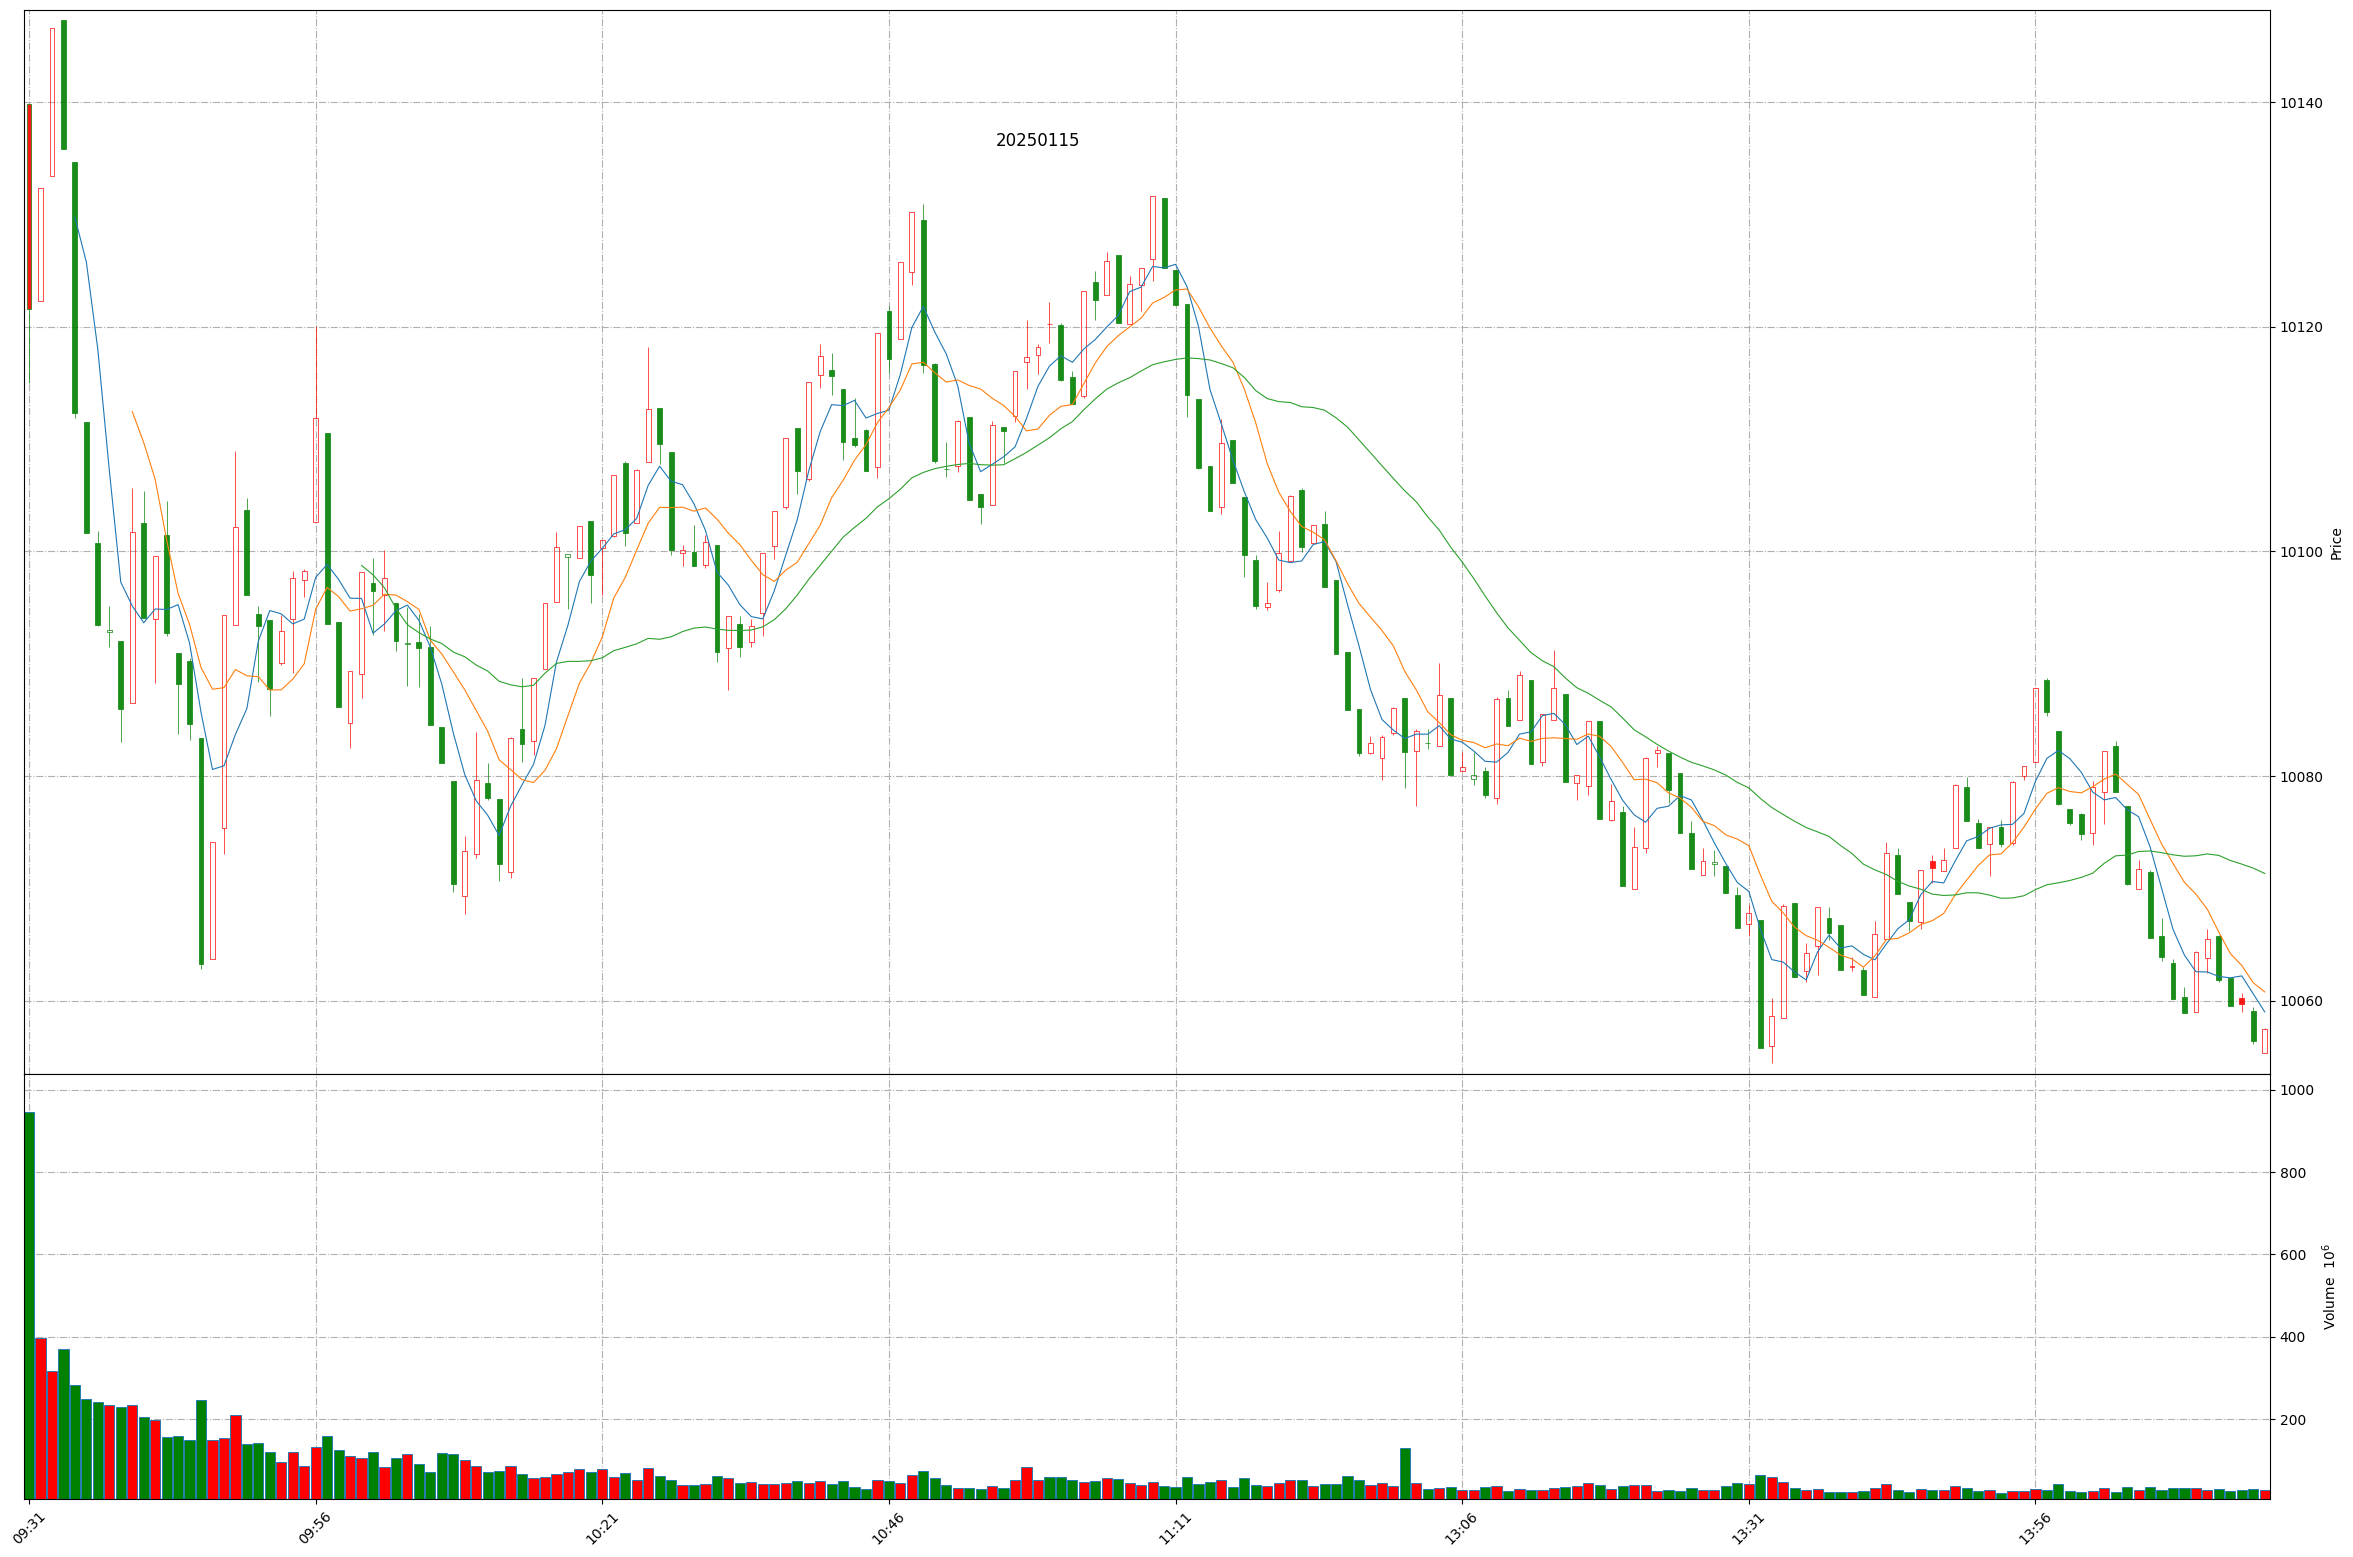
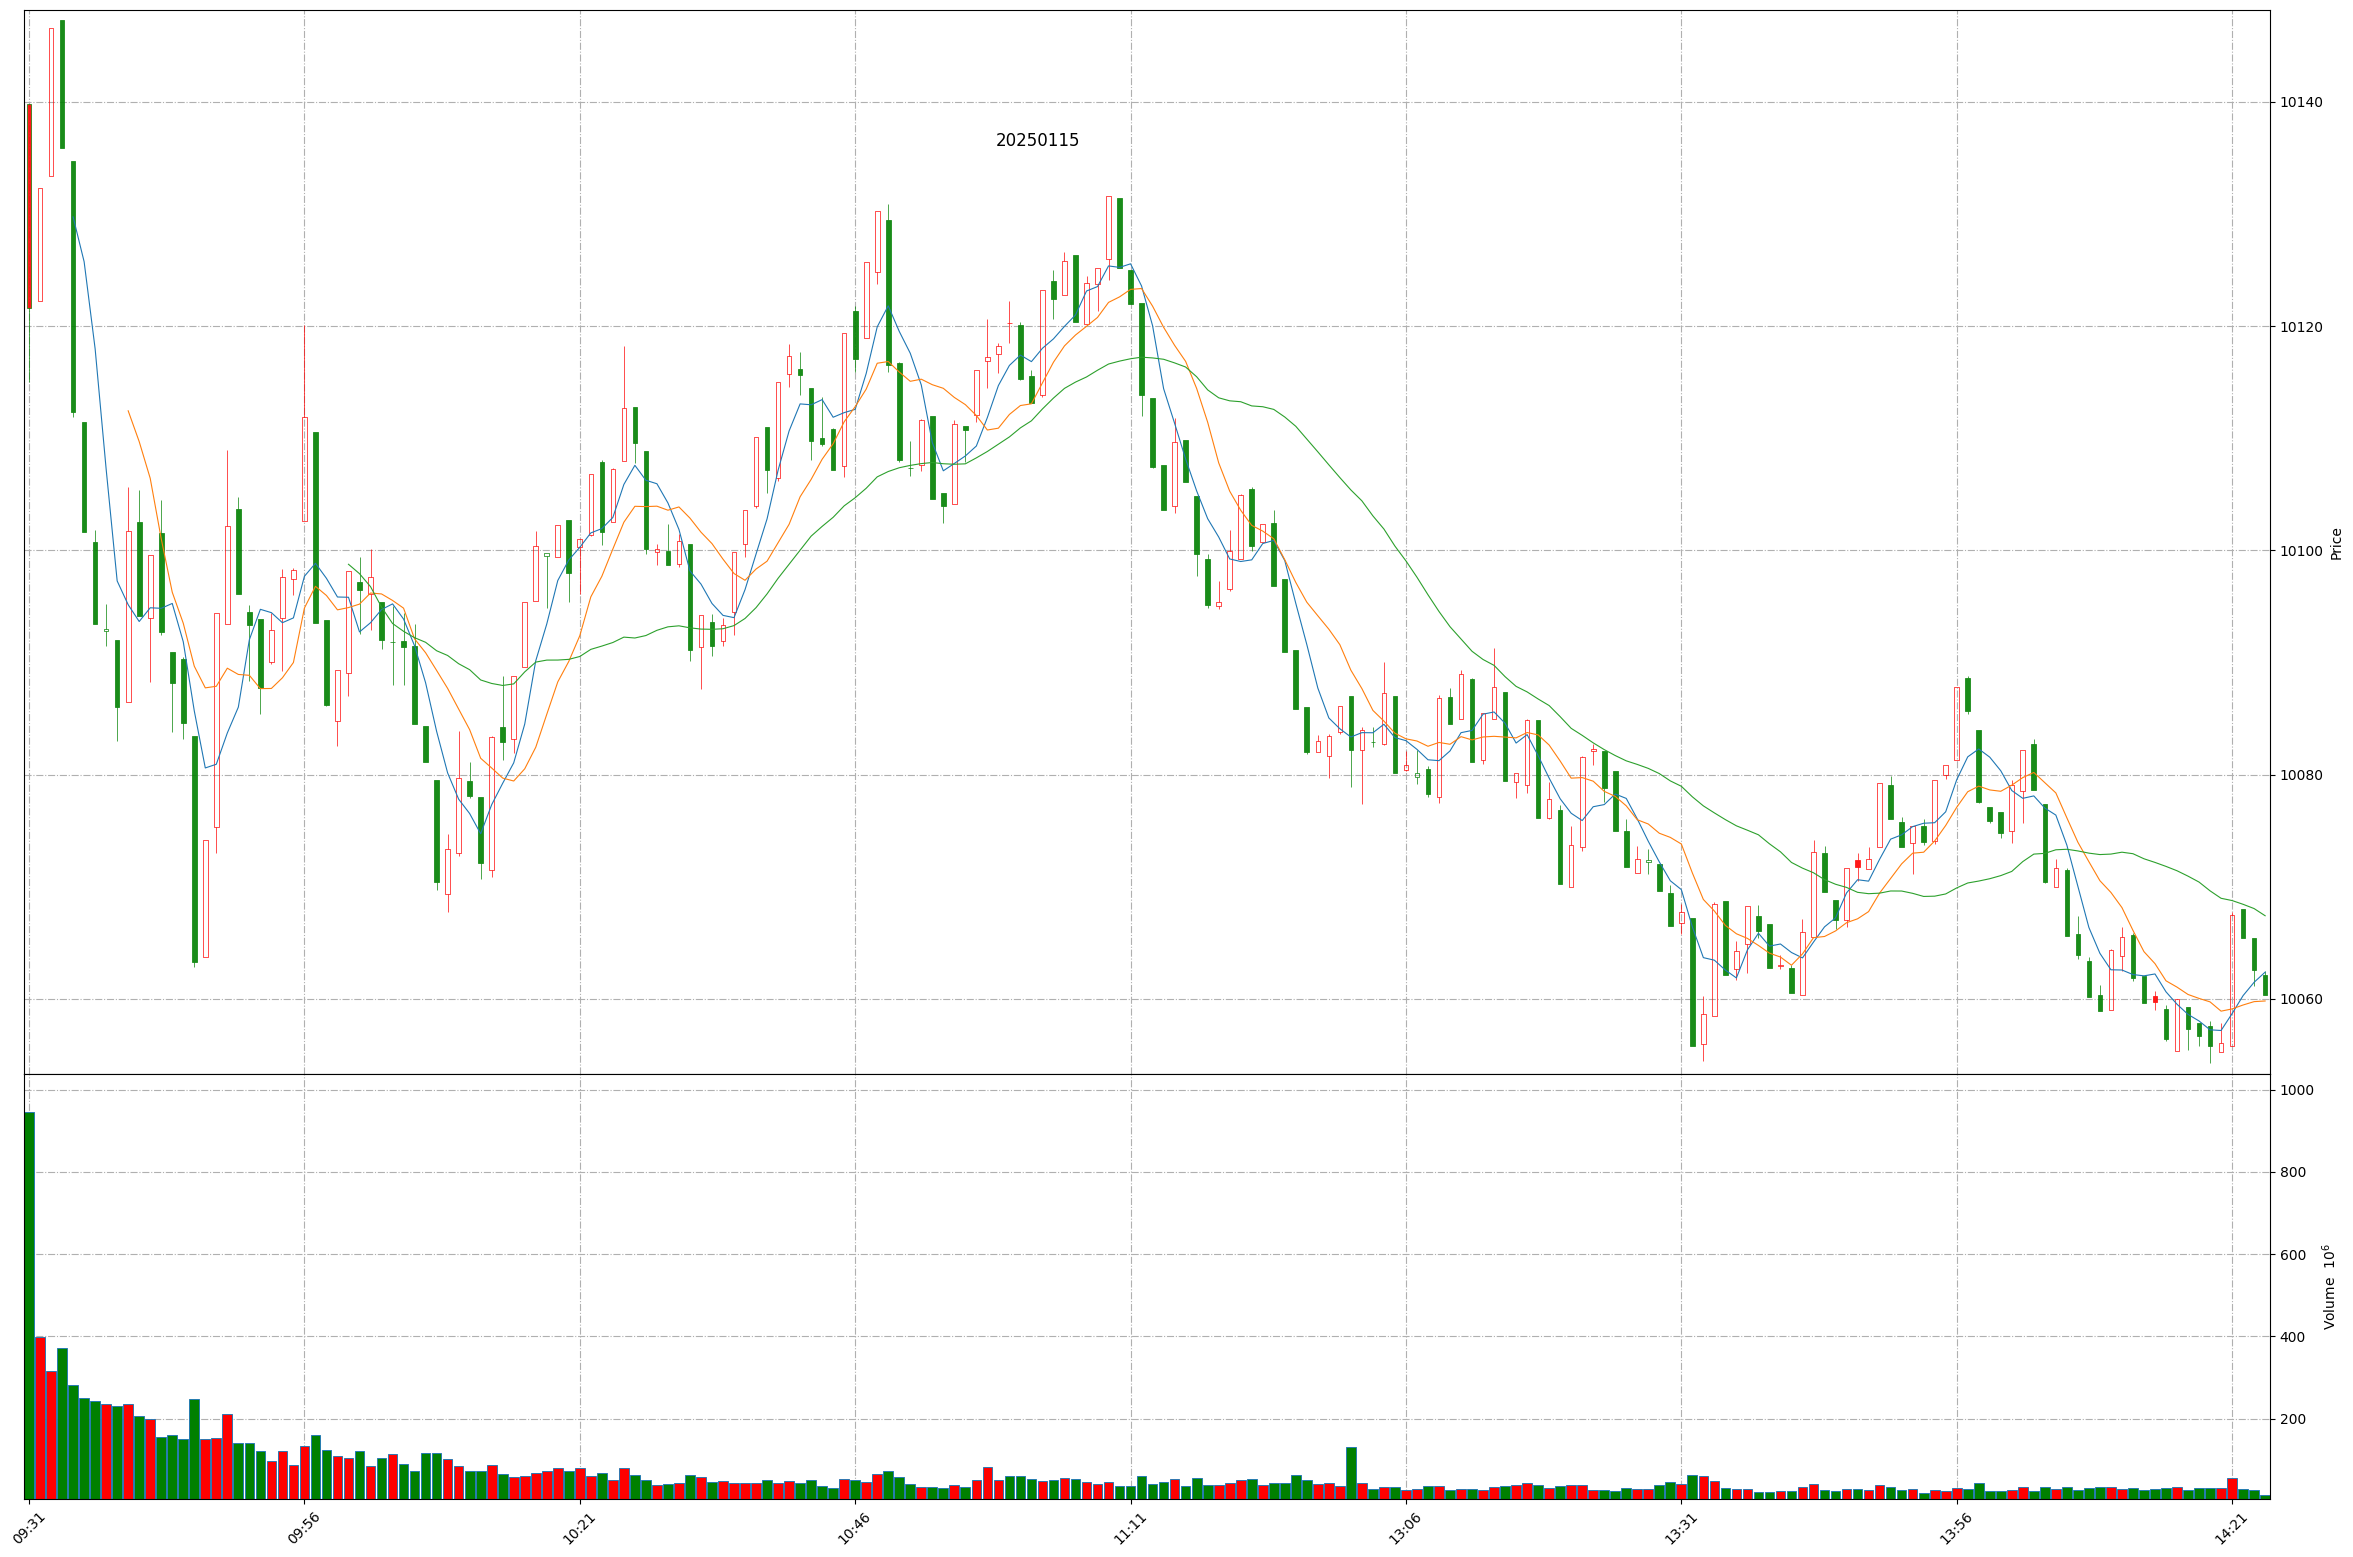
Github action update at 2025-01-15 14:23:59.

Changed region(s): [[0.031, 0.1233, 0.9928, 0.6782], [0.0, 0.894, 0.9618, 0.9865], [0.031, 0.185, 0.062, 0.2158]]

diff --git a/README.md b/README.md
@@ -1,11 +1,11 @@
 
 # Daily-A-share-market-quotes 每日 A 股指数（5min 更新）- 20250115
 
-### 上证指数 20250115 14:15
+### 上证指数 20250115 14:23
 ![](./fig/2025/1/20250115-sh000001.png)
 
-### 深证成指 20250115 14:15
+### 深证成指 20250115 14:23
 ![](./fig/2025/1/20250115-sz399001.png)
 
-### 北证50 20250115 14:15
+### 北证50 20250115 14:23
 ![](./fig/2025/1/20250115-bj899050.png)
